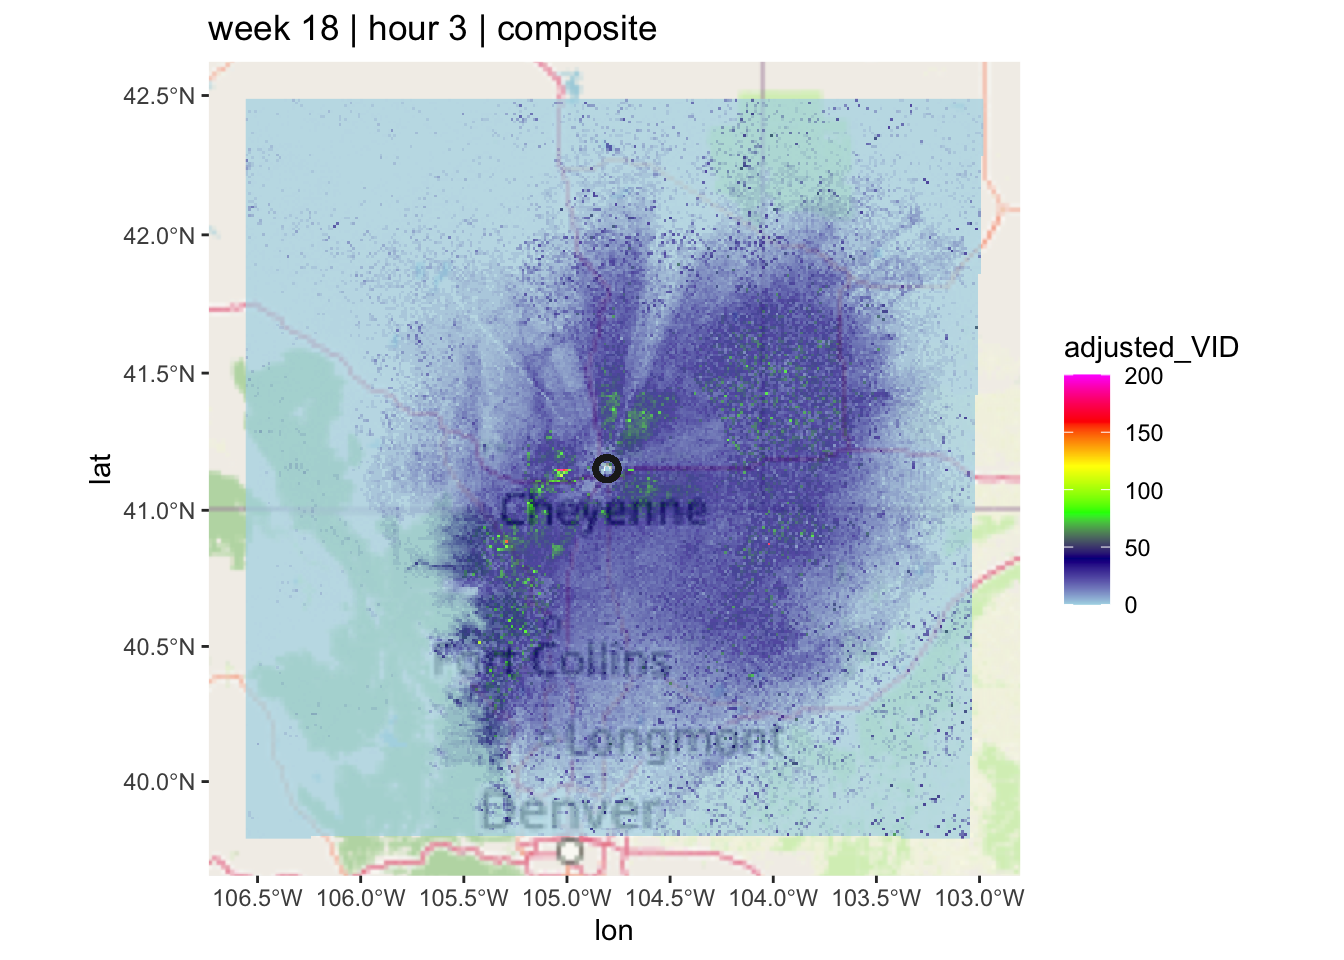
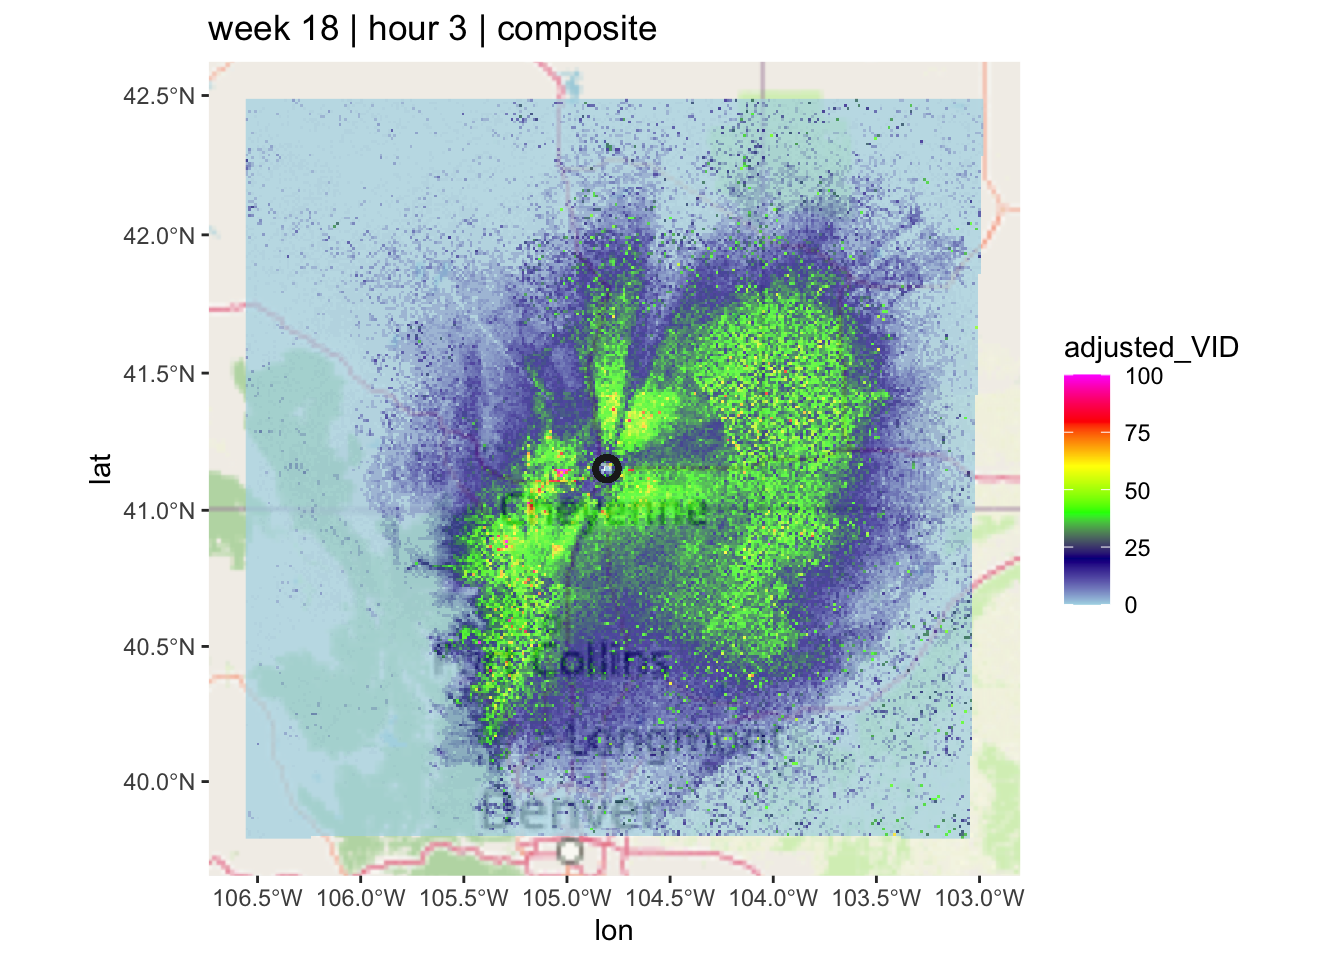
added bookdown

diff --git a/wgfd/azimuth-effect-correction.html b/wgfd/azimuth-effect-correction.html
@@ -292,7 +292,7 @@ code span.wa { color: #60a0b0; font-weight: bold; font-style: italic; } /* Warni
 <span id="cb7-36"><a href="#cb7-36" tabindex="-1"></a>                                               ,<span class="at">lat=</span>lat</span>
 <span id="cb7-37"><a href="#cb7-37" tabindex="-1"></a>                                               ,<span class="at">reference_angle=</span>vp_df_list[[<span class="dv">1</span>]]<span class="sc">$</span>stats<span class="sc">$</span>mean_angle_degrees)</span>
 <span id="cb7-38"><a href="#cb7-38" tabindex="-1"></a></span>
-<span id="cb7-39"><a href="#cb7-39" tabindex="-1"></a><span class="fu">map</span>(mean_composite_ppi, <span class="at">map=</span>basemap, <span class="at">param=</span><span class="st">&#39;VID&#39;</span>, <span class="at">zlim=</span><span class="fu">c</span>(<span class="dv">0</span>,<span class="dv">200</span>)) <span class="sc">+</span> <span class="fu">ggtitle</span>(<span class="st">&quot;week 18 | hour 3 | composite&quot;</span>)</span></code></pre></div>
+<span id="cb7-39"><a href="#cb7-39" tabindex="-1"></a><span class="fu">map</span>(mean_composite_ppi, <span class="at">map=</span>basemap, <span class="at">param=</span><span class="st">&#39;VID&#39;</span>, <span class="at">zlim=</span><span class="fu">c</span>(<span class="dv">0</span>,<span class="dv">100</span>)) <span class="sc">+</span> <span class="fu">ggtitle</span>(<span class="st">&quot;week 18 | hour 3 | composite&quot;</span>)</span></code></pre></div>
 </details>
 <p><img src="azimuth_effect_correction_files/figure-html/unnamed-chunk-4-1.png" width="672" /></p>
 <details class=chunk-details><summary class=chunk-summary><span class=chunk-summary-text>Code</span></summary>
@@ -554,7 +554,7 @@ should give you the value by which to shift your relative azmiuth. The purple li
 <span id="cb18-10"><a href="#cb18-10" tabindex="-1"></a></span>
 <span id="cb18-11"><a href="#cb18-11" tabindex="-1"></a>mean_composite_ppi<span class="sc">$</span>data<span class="sc">$</span>adjusted_VID <span class="ot">&lt;-</span> <span class="fu">sapply</span>(mean_composite_ppi<span class="sc">$</span>data<span class="sc">$</span>VID, find_closest_adjusted_VID, <span class="at">valid_data =</span> valid_data)</span>
 <span id="cb18-12"><a href="#cb18-12" tabindex="-1"></a></span>
-<span id="cb18-13"><a href="#cb18-13" tabindex="-1"></a><span class="fu">map</span>(mean_composite_ppi, <span class="at">map=</span>basemap, <span class="at">param=</span><span class="st">&#39;adjusted_VID&#39;</span>, <span class="at">zlim=</span><span class="fu">c</span>(<span class="dv">0</span>,<span class="dv">200</span>)) <span class="sc">+</span> <span class="fu">ggtitle</span>(<span class="st">&quot;week 18 | hour 3 | composite&quot;</span>)</span></code></pre></div>
+<span id="cb18-13"><a href="#cb18-13" tabindex="-1"></a><span class="fu">map</span>(mean_composite_ppi, <span class="at">map=</span>basemap, <span class="at">param=</span><span class="st">&#39;adjusted_VID&#39;</span>, <span class="at">zlim=</span><span class="fu">c</span>(<span class="dv">0</span>,<span class="dv">100</span>)) <span class="sc">+</span> <span class="fu">ggtitle</span>(<span class="st">&quot;week 18 | hour 3 | composite&quot;</span>)</span></code></pre></div>
 </details>
 <p><img src="azimuth_effect_correction_files/figure-html/unnamed-chunk-10-1.png" width="672" /></p>
 </div>
